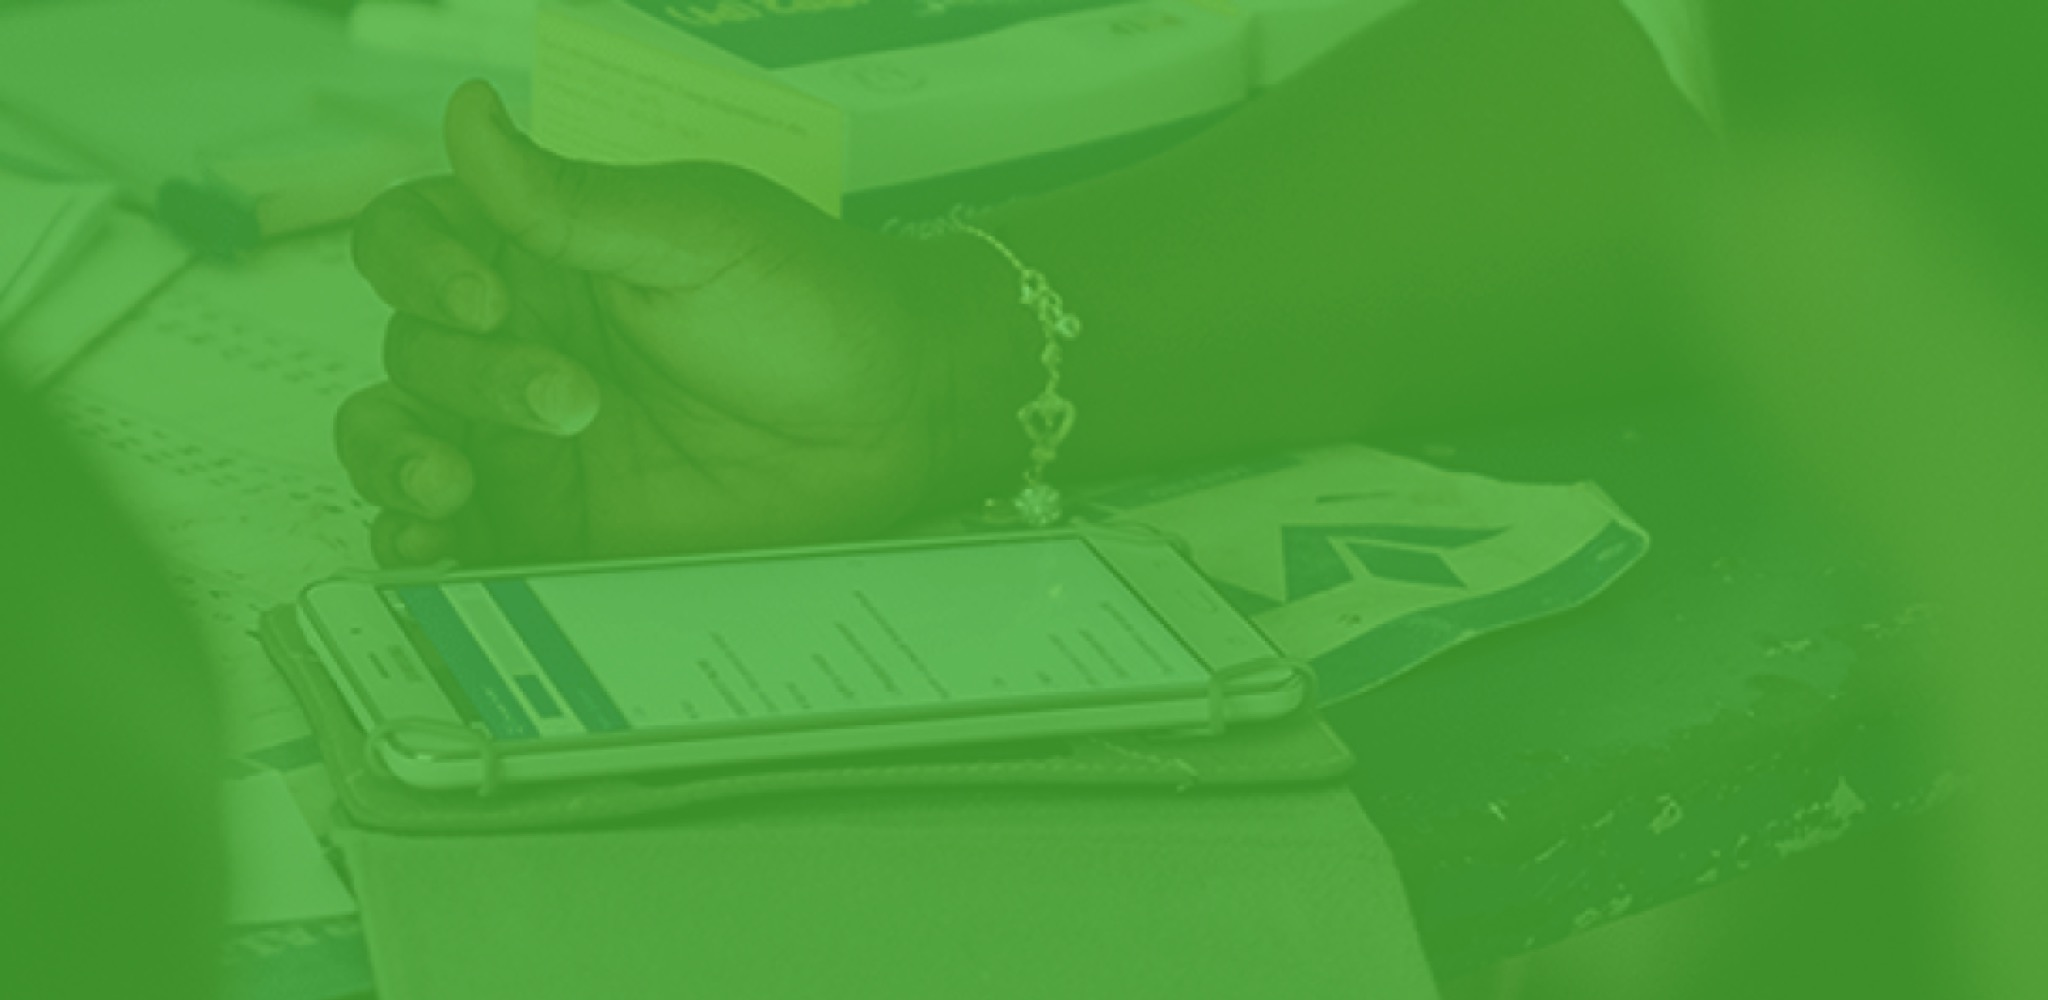
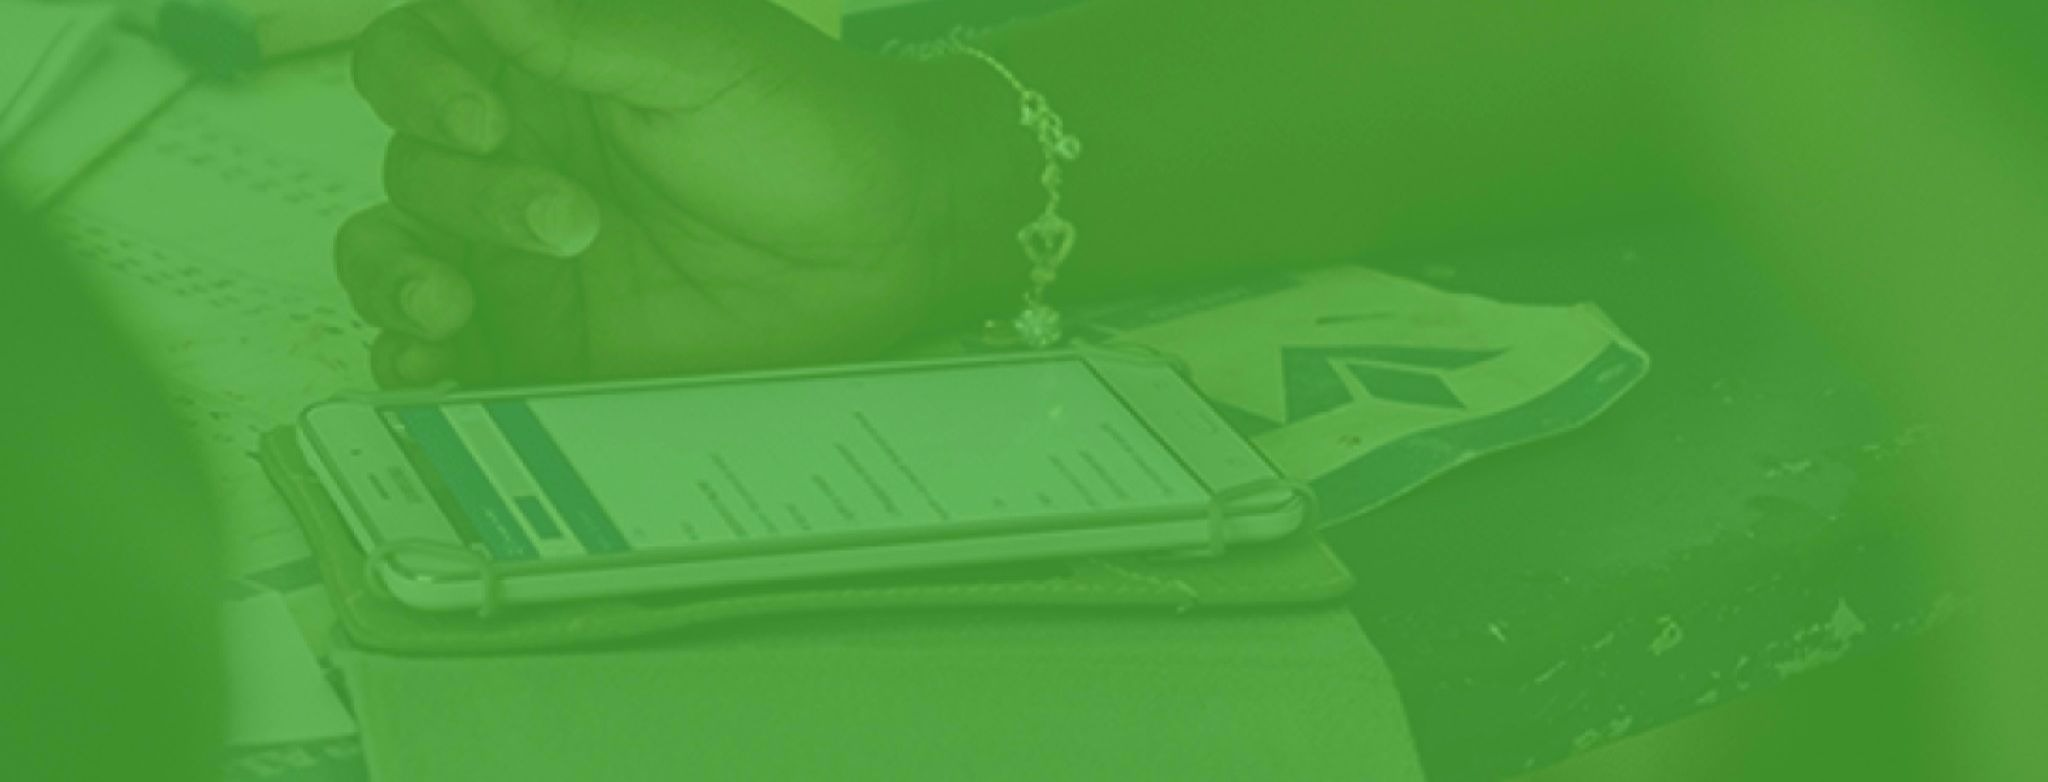
fix the commcare phone image issue

diff --git a/dimagi/pages/templates/sections/sectors/agriculture_extension_programs/news.html b/dimagi/pages/templates/sections/sectors/agriculture_extension_programs/news.html
@@ -3,7 +3,7 @@
 
 <section class="pad-bottom-medium"
          id="news">
-  <div class="content pad-top-medium">
+  <div class="content pad-top-small">
     <h2>
       {% blocktrans %}
         The Latest on Mobile Data Collection in Agricultural
@@ -16,42 +16,44 @@
       {% endblocktrans %}
     </p>
   </div>{# .content #}
-  <div class="content">
+  <div class="content pad-top-line">
     <div class="grid grid-3-at-large grid-1-at-medium grid-row-equal-heights ">
-      <div class="column pad-top-small  ">
-        <img  src="../../../../static/pages/sectors/agriculture-extension-programs/news/AgExtension_Blog1.jpg" />
-        <div class="pad-line">
-          <h5 >
-            <strong class="body-color">
+      <div class="column">
+        <div class="pad-bottom-base white-bg">
+          <img  src="../../../../static/pages/sectors/agriculture-extension-programs/news/AgExtension_Blog1.jpg" />
+          <div class="pad-line">
+            <h5 >
+              <strong class="body-color">
+                {% blocktrans %}
+                  What’s Ahead for Mobile Data <br>
+                  Collection in Agriculture?
+                {% endblocktrans %}
+              </strong>
+            </h5>
+            <p class="body-color">
               {% blocktrans %}
-                What’s Ahead for Mobile Data <br>
-                Collection in Agriculture?
+                A Q&A with Research Coordinator
+                Jack Hetherington (ACIAR) on his
+                advice for mobile data collection in
+                ad programs.
               {% endblocktrans %}
-            </strong>
-          </h5>
-          <p class="body-color">
-            {% blocktrans %}
-              A Q&A with Research Coordinator
-              Jack Hetherington (ACIAR) on his
-              advice for mobile data collection in
-              ad programs.
-            {% endblocktrans %}
-          </p>
-          <p>
+            </p>
+            <p>
             <br>
-            <a href="https://www.dimagi.com/blog/whats-ahead-for-mobile-data-collection-in-agriculture/" class="link-gray">
-              {% blocktrans %}
-                Read More &gt;
-              {% endblocktrans %}
-            </a>
-          </p>
+              <a href="https://www.dimagi.com/blog/whats-ahead-for-mobile-data-collection-in-agriculture/" class="link-gray">
+                {% blocktrans %}
+                  Read More &gt;
+                {% endblocktrans %}
+              </a>
+            </p>
+          </div>
         </div>
-      </div>{# .column #}
-
-      <div class="column pad-top-small">
-        <img src="../../../../static/pages/sectors/agriculture-extension-programs/news/AgExtension_Blog2.jpg" />
-        <div class="pad-line">
-          <h5 class="">
+      </div> {# .column #}
+      <div class="column">
+        <div class="pad-bottom-base white-bg">
+          <img  src="../../../../static/pages/sectors/agriculture-extension-programs/news/AgExtension_Blog2.jpg" />
+          <div class="pad-line">
+            <h5 class="">
             <strong class="body-color">
               {% blocktrans %}
                 How to Unlock the Power of <br>
@@ -75,13 +77,15 @@
               {% endblocktrans %}
             </a>
           </p>
+          </div>
         </div>
-      </div>{# .column #}
+      </div> {# .column #}
 
-      <div class="column pad-top-small">
-        <img src="../../../../static/pages/sectors/agriculture-extension-programs/news/AgExtension_Blog3.jpg" />
-        <div class="pad-line">
-          <h5 class="">
+      <div class="column">
+        <div class="pad-bottom-base white-bg">
+          <img  src="../../../../static/pages/sectors/agriculture-extension-programs/news/AgExtension_Blog3.jpg" />
+          <div class="pad-line">
+            <h5 class="">
             <strong class="body-color">
               {% blocktrans %}
                 Digitizing Coffee Agronomy <br>
@@ -105,8 +109,9 @@
               {% endblocktrans %}
             </a>
           </p>
+          </div>
         </div>
-      </div>{# .column #}
+      </div> {# .column #}
     </div>{# .grid #}
   </div>{# .content #}
   <div class="content pad-top-small">
@@ -116,48 +121,54 @@
       {% endblocktrans %}
     </h2>
     <p>
-      <ul class="gap-left-base">
-        <li class="gap-bottom-base">
-          <a href="https://www.commcarehq.org/exchange/145d386993f5b6cf40f1ba96bdb961a3/info/"
-             class="link-gray">
-            {% blocktrans %}
-              CARE CommCare App Available on the Exchange
-            {% endblocktrans %}
-          </a>
-        </li>
-        <li class="gap-bottom-base">
-          <a href="https://www.commcarehq.org/exchange/a8c0b7c6522fb4eeb707bc9f4123249e/info/"
-             class="link-gray">
-            {% blocktrans %}
-              Farmer Tracking App on the Exchange
-            {% endblocktrans %}
-          </a>
-        </li>
-        <li class="gap-bottom-base">
-          <a href="https://www.youtube.com/watch?v=UvdDOQOI2i4"
-             class="link-gray">
-            {% blocktrans %}
-              CommCare Demo: CARE Pathways' Application for Agricultural Extension Workers
-            {% endblocktrans %}
-          </a>
-        </li>
-        <li class="gap-bottom-base">
-          <a href="https://www.youtube.com/watch?list=PLVmwIEfrcKqnGhas9Vy4CmPEvG9xVvQdr&v=8BzYVfsmmcA"
-             class="link-gray">
-            {% blocktrans %}
-              Digitizing Development, CARE's Mobile MIS for Agriculture
-            {% endblocktrans %}
-          </a>
-        </li>
-        <li class="gap-bottom-base">
-          <a href="https://www.youtube.com/watch?v=uqRfAsuQx3s"
-             class="link-gray">
-            {% blocktrans %}
-              CommCare Demo on a Nokia
-            {% endblocktrans %}
-          </a>
-        </li>
-      </ul>
+      <div class="gap-left-base">
+        <div class="gap-bottom-base">
+           <u>
+            <a href="https://www.commcarehq.org/exchange/145d386993f5b6cf40f1ba96bdb961a3/info/"
+             class="">
+              {% blocktrans %}
+                CARE CommCare App Available on the Exchange
+              {% endblocktrans %}
+            </a>
+          </u>
+        </div>
+        <div class="gap-bottom-base">
+          <u>
+            <a href="https://www.commcarehq.org/exchange/a8c0b7c6522fb4eeb707bc9f4123249e/info/">
+              {% blocktrans %}
+                Farmer Tracking App on the Exchange
+              {% endblocktrans %}
+            </a>
+          </u>
+        </div>
+        <div class="gap-bottom-base">
+          <u>
+            <a href="https://www.youtube.com/watch?v=UvdDOQOI2i4">
+              {% blocktrans %}
+                CommCare Demo: CARE Pathways' Application for Agricultural Extension Workers
+              {% endblocktrans %}
+            </a>
+          </u>
+        </div>
+        <div class="gap-bottom-base">
+          <u>
+            <a href="https://www.youtube.com/watch?list=PLVmwIEfrcKqnGhas9Vy4CmPEvG9xVvQdr&v=8BzYVfsmmcA">
+              {% blocktrans %}
+                Digitizing Development, CARE's Mobile MIS for Agriculture
+              {% endblocktrans %}
+            </a>
+          </u>
+        </div>
+        <div class="gap-bottom-base">
+          <u>
+            <a href="https://www.youtube.com/watch?v=uqRfAsuQx3s">
+              {% blocktrans %}
+                CommCare Demo on a Nokia
+              {% endblocktrans %}
+            </a>
+          </u>
+        </div>
+      </div>
     </p>
   </div>{# .content #}
 </section>

diff --git a/dimagi/pages/templates/sections/sectors/agriculture_extension_programs/part3.html b/dimagi/pages/templates/sections/sectors/agriculture_extension_programs/part3.html
@@ -6,19 +6,19 @@
 {% endblock %}
 
 <article class="epic part3">
-  <section class="epic-cover aspect-ratio-rect"
+  <section class="epic-cover"
     data-lazybg="true">
-    <div class="part3 pad-top-medium pad-bottom-medium pad-top-medium-at-small pad-left-large-at-small">
+    <div class="commcare-text pad-top-medium-at-medium pad-top-medium-at-large pad-top-medium-at-extra-large pad-bottom-medium pad-top-base-at-small pad-left-large-at-small">
       <div class="content content-width-medium">
         <div class=" content-width-small">
-          <h2 class="white">
+          <h2 class="white mb-10">
             {% blocktrans %}
               See CommCare in Action
             {% endblocktrans %}
           </h2>
           <p class="white">
             {% blocktrans %}
-              Watch as our team takes you through the design of a basic <br>
+              Watch as our team takes you through the design of a basic
               app in CommCare
             {% endblocktrans %}                         
           </p>
@@ -32,6 +32,6 @@
       <div class="phone-image off-grid white-lazy-bg"
         data-lazybg="true">
       </div>
-    </div> {# part3 #}                          
+    </div> {# .commcare-text #}                          
   </section>
 </article>

diff --git a/dimagi/pages/static/style/pages/sectors/agricultural.scss b/dimagi/pages/static/style/pages/sectors/agricultural.scss
@@ -18,19 +18,20 @@
   $_base-height: 620px;
   $_height-by-size: (
     small: 620px,
-    medium: 375px,
-    large: 397px,
-    extra-large: 440px,
+    medium: 385px,
+    large: 360px,
+    extra-large: 360px,
   );
 	@include make-bg(epic-cover, '../../../pages/sectors/agriculture-extension-programs/part3/hero', $_base-height, $_height-by-size);
 }
+
 .center {
   display: block;
   margin-left: auto;
   margin-right: auto;
 }
 
-.part3 {
+.commcare-text {
   $_base-height: 290px;
   $_height-by-size: (
     small: 290px,
@@ -46,7 +47,7 @@
       left: 0;
       position: absolute;
       right: auto;
-      width: 100%;
+      width: 120%;
       z-index: 1;
     }
     .content {
@@ -60,10 +61,10 @@
   background-color: transparent;
 }
 
-.part3 .aspect-ratio-rect{
-  padding-top:calc(31% - 10px);
-}
-
 .img-height-320 {
   height: 320px;
+}
+
+.mb-10 {
+  margin-bottom: 10px;
 }
